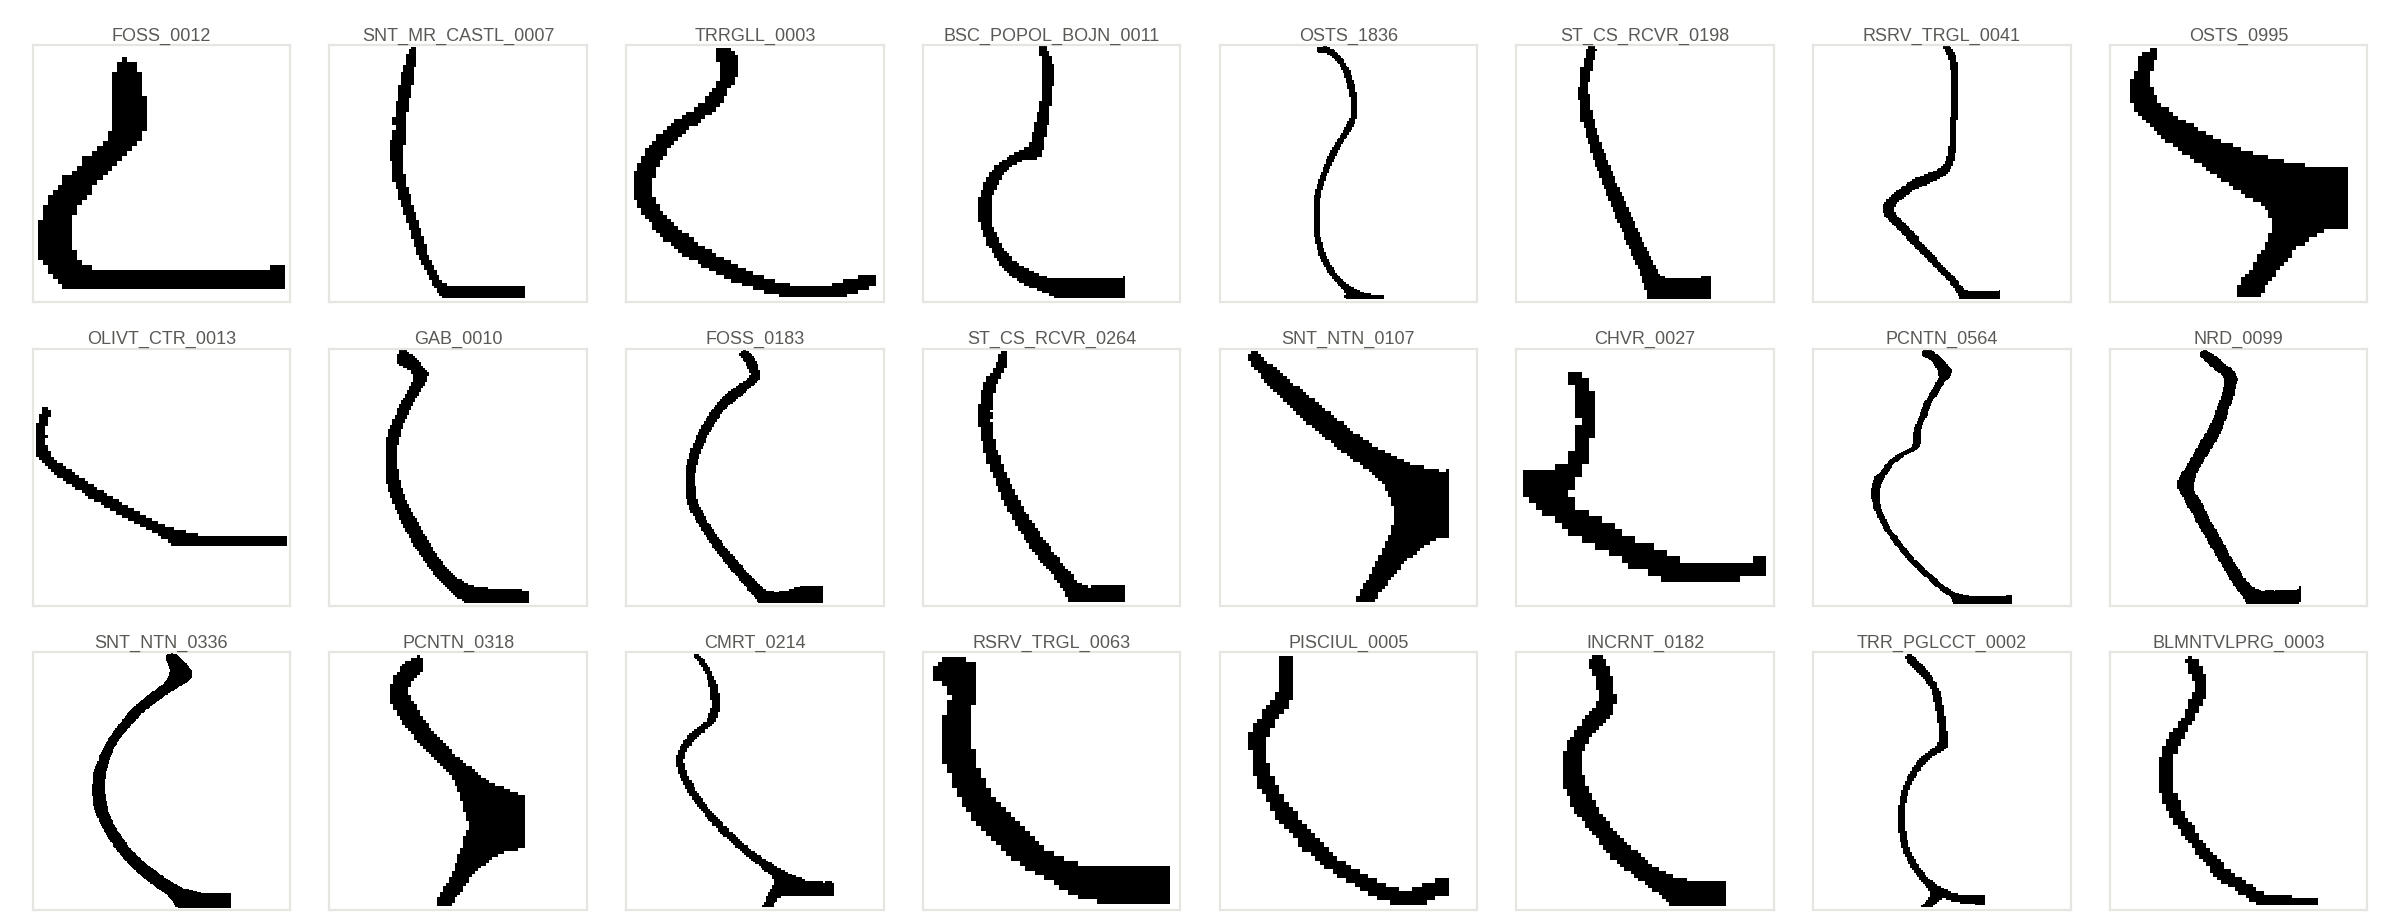
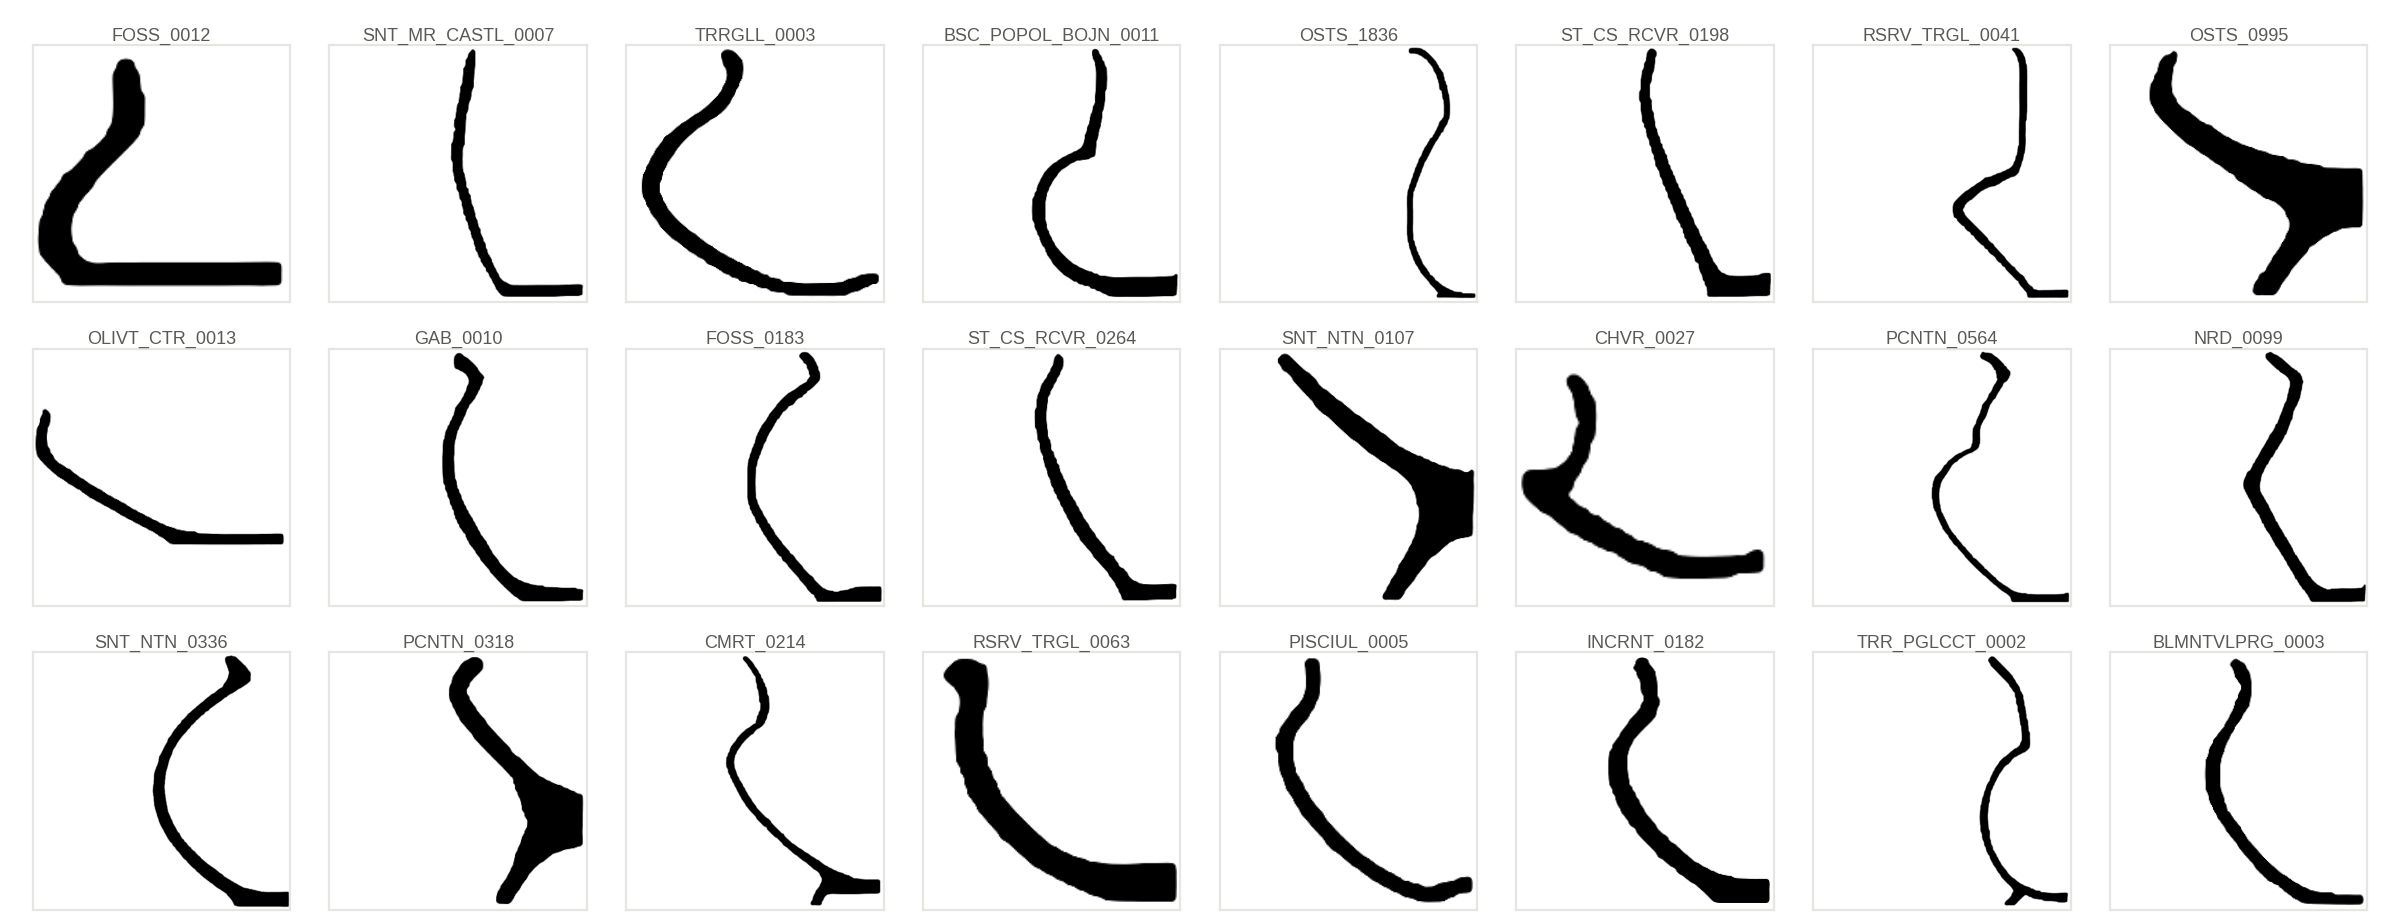
README figures: drawings on two rows, profiles drawn through the smoothing network

diff --git a/scripts/make_readme_figures.py b/scripts/make_readme_figures.py
@@ -106,8 +106,8 @@ def drawing_and_vessel(meta, masks):
     sel = ((meta["height_cm"] > 7) & (meta["height_cm"] < 40)).values
     ids = [typical(meta, sel & (meta["height_cm"].between(lo, hi)).values, 1, seed=k)[0]
            for k, (lo, hi) in enumerate(((7, 9), (9, 12), (12, 16), (16, 22), (22, 30), (30, 40)))]
-    fig, axes = plt.subplots(1, 6, figsize=(13, 2.9))
-    for ax, i in zip(axes, ids):
+    fig, axes = plt.subplots(2, 3, figsize=(10.5, 4.6))
+    for ax, i in zip(axes.ravel(), ids):
         ax.axis("off")
         pot = physical(masks[i], meta["height_cm"][i])
         pts = outline(pot)
@@ -124,22 +124,32 @@ def drawing_and_vessel(meta, masks):
         w = H * img.shape[1] / img.shape[0]
         ax.imshow(img, extent=(R * 1.3, R * 1.3 + w, 0, H))
         ax.set_xlim(-R * 1.1, R * 1.3 + w)
-        ax.set_ylim(-0.16 * H, 1.06 * H)
+        ax.set_ylim(-0.2 * H, 1.04 * H)
         ax.set_aspect("equal")
         ax.text(0, -0.12 * H, f"{meta['period'][i]} · {meta['height_cm'][i]:.0f} cm", ha="center", va="top", fontsize=8,
                 color=INK_2)
-    fig.subplots_adjust(left=0.01, right=0.99, top=0.98, bottom=0.04, wspace=0.05)
+    fig.subplots_adjust(left=0.01, right=0.99, top=0.99, bottom=0.01, wspace=0.05, hspace=0.02)
     fig.savefig(ASSETS / "aippd_drawing_to_vessel.png", facecolor="white")
     plt.close(fig)
 
 
 def masks_grid(meta, masks):
-    """The data as a model sees it: 256 x 256 binary profiles."""
+    """The data as a model sees it: 256 x 256 binary profiles, drawn through the smoothing network of Reconstructor
+    (potfm/superres.py: the outline at 4x the resolution, without the 1-pixel steps; display only, the data are binary)."""
+    from potfm import superres
+    net = superres.load()
     rng = np.random.default_rng(1)
     ids = rng.choice(len(masks), 24, replace=False)
     fig, axes = plt.subplots(3, 8, figsize=(12, 4.6))
     for ax, i in zip(axes.ravel(), ids):
-        ax.imshow(masks[i], cmap="gray_r", interpolation="nearest")
+        # at the corpus' physical scale (1.5 mm/px), where the network was trained, then fitted back to a square cell
+        f = superres.field(physical(masks[i], meta["height_cm"][i]), net)
+        img = np.clip(f * superres.SCALE + 0.5, 0, 1)
+        side = int(max(img.shape) * 1.02)
+        cell = np.zeros((side, side), np.float32)
+        y0, x0 = (side - img.shape[0]) // 2, side - img.shape[1] - (side - img.shape[0]) // 2 // 2
+        cell[y0:y0 + img.shape[0], max(x0, 0):max(x0, 0) + img.shape[1]] = img[:, :side - max(x0, 0)]
+        ax.imshow(cell, cmap="gray_r", interpolation="bilinear", vmin=0, vmax=1)
         ax.set_xticks([])
         ax.set_yticks([])
         for s in ax.spines.values():

diff --git a/README.md b/README.md
@@ -49,7 +49,8 @@ proportions kept, the axis of rotation on its **right edge**. The real size of e
 (height, maximum width, rim diameter, capacity, outer surface), computed when the dataset was built.
 
 ![The profiles as a model sees them](assets/aippd_masks.png)
-<sub>Twenty-four random profiles, as stored (256 × 256).</sub>
+<sub>Twenty-four random profiles (256 × 256), drawn with a smoothing network that removes the pixel steps of the
+outline; the data themselves are binary.</sub>
 
 ## Coverage
 
